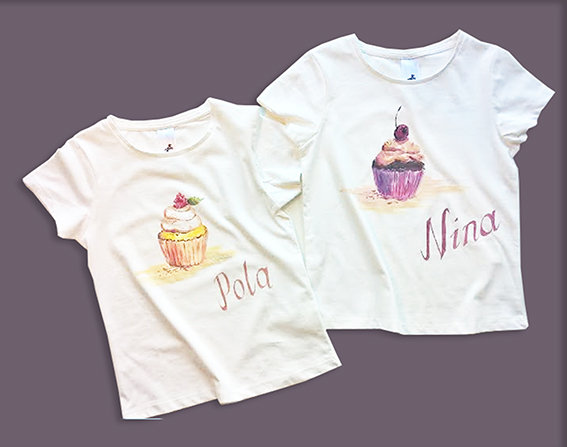
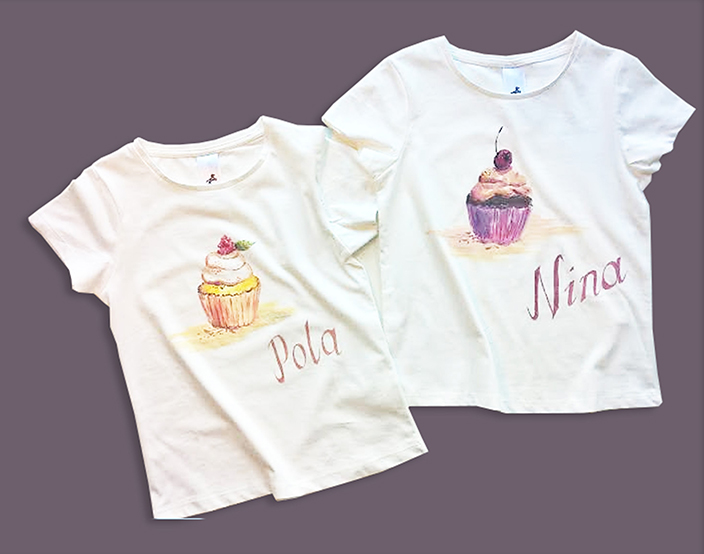
Change T-shirts images
Replace old images with corrected ones

diff --git a/src/images/tshirts/tshirts.js b/src/images/tshirts/tshirts.js
@@ -19,7 +19,7 @@ export const tshirts = [
   {
     id: 1,
     image72: require("./72dpi/aparat72.jpg").default,
-    image300: require("./300dpi/aparat300.jpg").default,
+    image300: require("./150dpi/aparat150.jpg").default,
     year: 2020,
     available: false,
     price: null
@@ -27,7 +27,7 @@ export const tshirts = [
   {
     id: 2,
     image72: require("./72dpi/babeczki72.jpg").default,
-    image300: require("./300dpi/babeczki300.jpg").default,
+    image300: require("./150dpi/babeczki150.jpg").default,
     year: 2020,
     available: false,
     price: null
@@ -35,7 +35,7 @@ export const tshirts = [
   {
     id: 3,
     image72: require("./72dpi/gandalf72.jpg").default,
-    image300: require("./300dpi/gandalf300.jpg").default,
+    image300: require("./150dpi/gandalf150.jpg").default,
     year: 2020,
     available: false,
     price: null
@@ -43,7 +43,7 @@ export const tshirts = [
   {
     id: 4,
     image72: require("./72dpi/gitara72.jpg").default,
-    image300: require("./300dpi/gitara300.jpg").default,
+    image300: require("./150dpi/gitara150.jpg").default,
     year: 2020,
     available: false,
     price: null
@@ -51,7 +51,7 @@ export const tshirts = [
   {
     id: 5,
     image72: require("./72dpi/gitarakolory72.jpg").default,
-    image300: require("./300dpi/gitarakolory300.jpg").default,
+    image300: require("./150dpi/gitarakolory150.jpg").default,
     year: 2020,
     available: false,
     price: null
@@ -59,7 +59,7 @@ export const tshirts = [
   {
     id: 6,
     image72: require("./72dpi/koty72.jpg").default,
-    image300: require("./300dpi/koty300.jpg").default,
+    image300: require("./150dpi/koty150.jpg").default,
     year: 2020,
     available: false,
     price: null
@@ -67,7 +67,7 @@ export const tshirts = [
   {
     id: 7,
     image72: require("./72dpi/krolik72.jpg").default,
-    image300: require("./300dpi/krolik300.jpg").default,
+    image300: require("./150dpi/krolik150.jpg").default,
     year: 2020,
     available: false,
     price: null
@@ -75,7 +75,7 @@ export const tshirts = [
   {
     id: 8,
     image72: require("./72dpi/leniwiec72.jpg").default,
-    image300: require("./300dpi/leniwiec300.jpg").default,
+    image300: require("./150dpi/leniwiec150.jpg").default,
     year: 2020,
     available: false,
     price: null
@@ -83,7 +83,7 @@ export const tshirts = [
   {
     id: 9,
     image72: require("./72dpi/leniwiecglowa72.jpg").default,
-    image300: require("./300dpi/leniwiecglowa300.jpg").default,
+    image300: require("./150dpi/leniwiecglowa150.jpg").default,
     year: 2020,
     available: false,
     price: null
@@ -91,7 +91,7 @@ export const tshirts = [
   {
     id: 10,
     image72: require("./72dpi/olaf72.jpg").default,
-    image300: require("./300dpi/olaf300.jpg").default,
+    image300: require("./150dpi/olaf150.jpg").default,
     year: 2020,
     available: false,
     price: null
@@ -99,7 +99,7 @@ export const tshirts = [
   {
     id: 11,
     image72: require("./72dpi/papuga72.jpg").default,
-    image300: require("./300dpi/papuga300.jpg").default,
+    image300: require("./150dpi/papuga150.jpg").default,
     year: 2020,
     available: false,
     price: null
@@ -107,7 +107,7 @@ export const tshirts = [
   {
     id: 12,
     image72: require("./72dpi/renifer72.jpg").default,
-    image300: require("./300dpi/renifer300.jpg").default,
+    image300: require("./150dpi/renifer150.jpg").default,
     year: 2020,
     available: false,
     price: null
@@ -115,7 +115,7 @@ export const tshirts = [
   {
     id: 13,
     image72: require("./72dpi/rower72.jpg").default,
-    image300: require("./300dpi/rower300.jpg").default,
+    image300: require("./150dpi/rower150.jpg").default,
     year: 2020,
     available: false,
     price: null
@@ -123,7 +123,7 @@ export const tshirts = [
   {
     id: 14,
     image72: require("./72dpi/sukienka72.jpg").default,
-    image300: require("./300dpi/sukienka300.jpg").default,
+    image300: require("./150dpi/sukienka150.jpg").default,
     year: 2020,
     available: false,
     price: null
@@ -131,7 +131,7 @@ export const tshirts = [
   {
     id: 15,
     image72: require("./72dpi/zuki72.jpg").default,
-    image300: require("./300dpi/zuki300.jpg").default,
+    image300: require("./150dpi/zuki150.jpg").default,
     year: 2020,
     available: false,
     price: null
@@ -139,7 +139,7 @@ export const tshirts = [
   {
     id: 16,
     image72: require("./72dpi/zyrafy72.jpg").default,
-    image300: require("./300dpi/zyrafy300.jpg").default,
+    image300: require("./150dpi/zyrafy150.jpg").default,
     year: 2020,
     available: false,
     price: null
@@ -147,7 +147,7 @@ export const tshirts = [
   {
     id: 17,
     image72: require("./72dpi/piernik72.jpg").default,
-    image300: require("./72dpi/piernik72.jpg").default,
+    image300: require("./150dpi/piernik150.jpg").default,
     year: 2020,
     available: false,
     price: null
